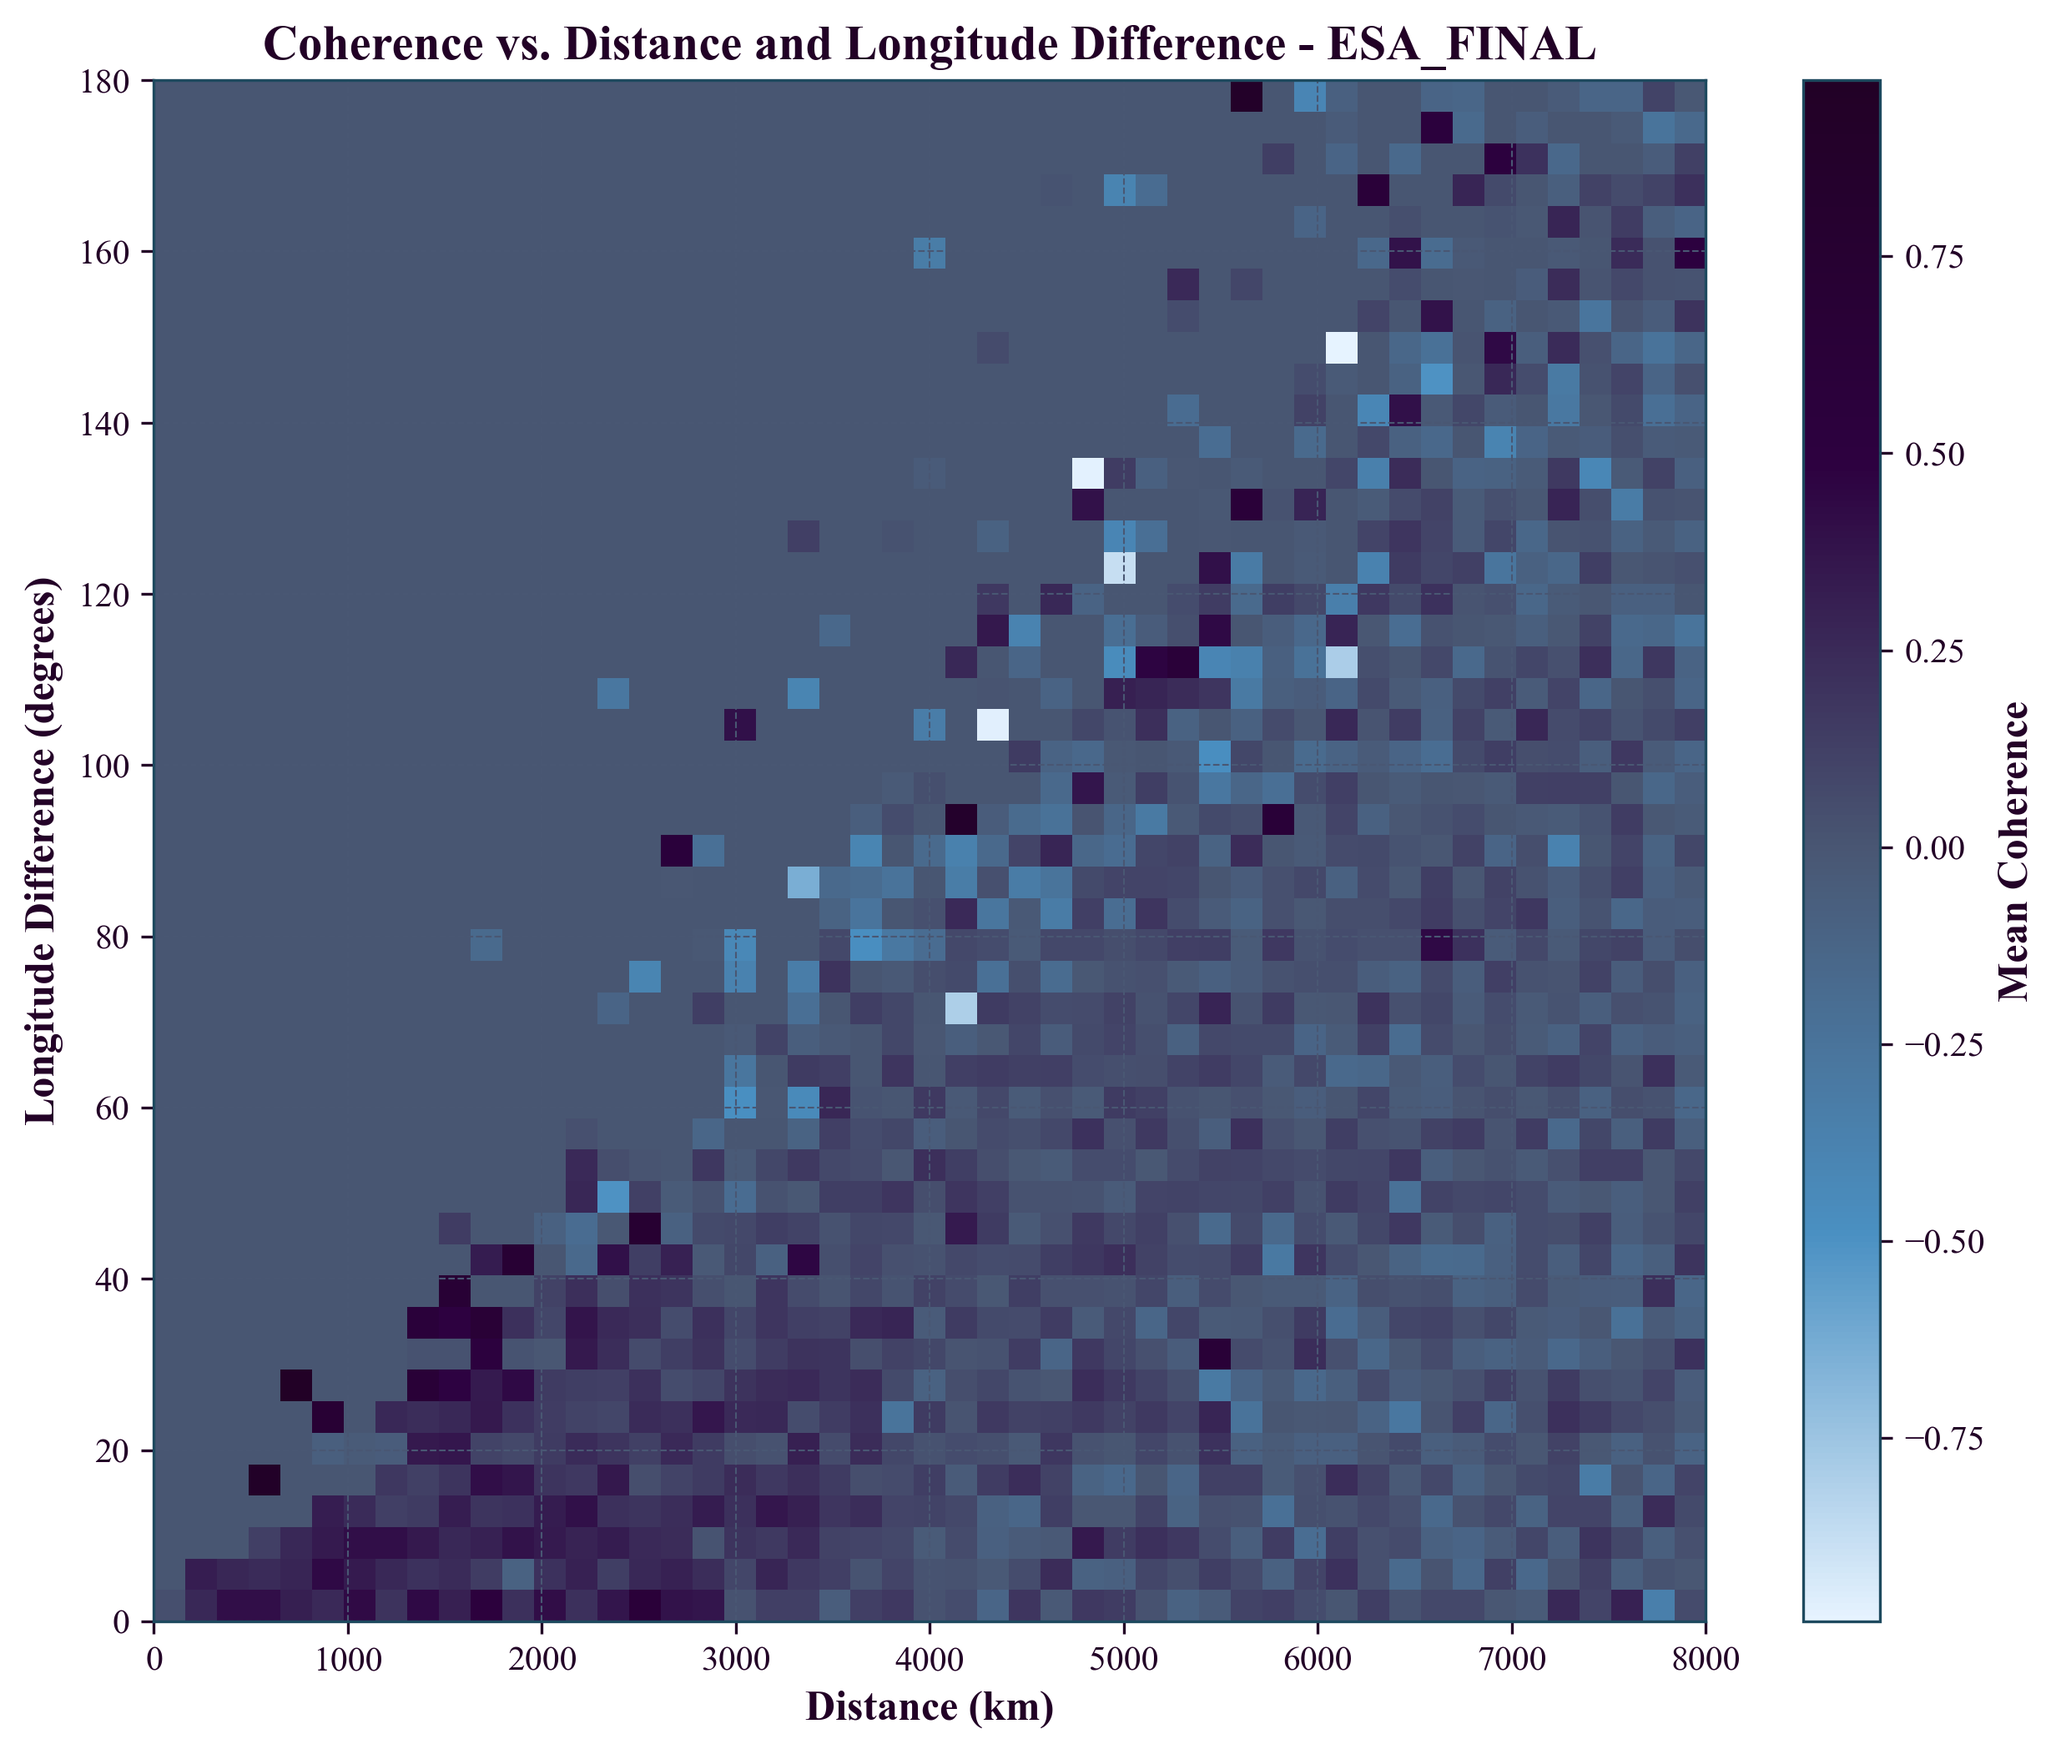
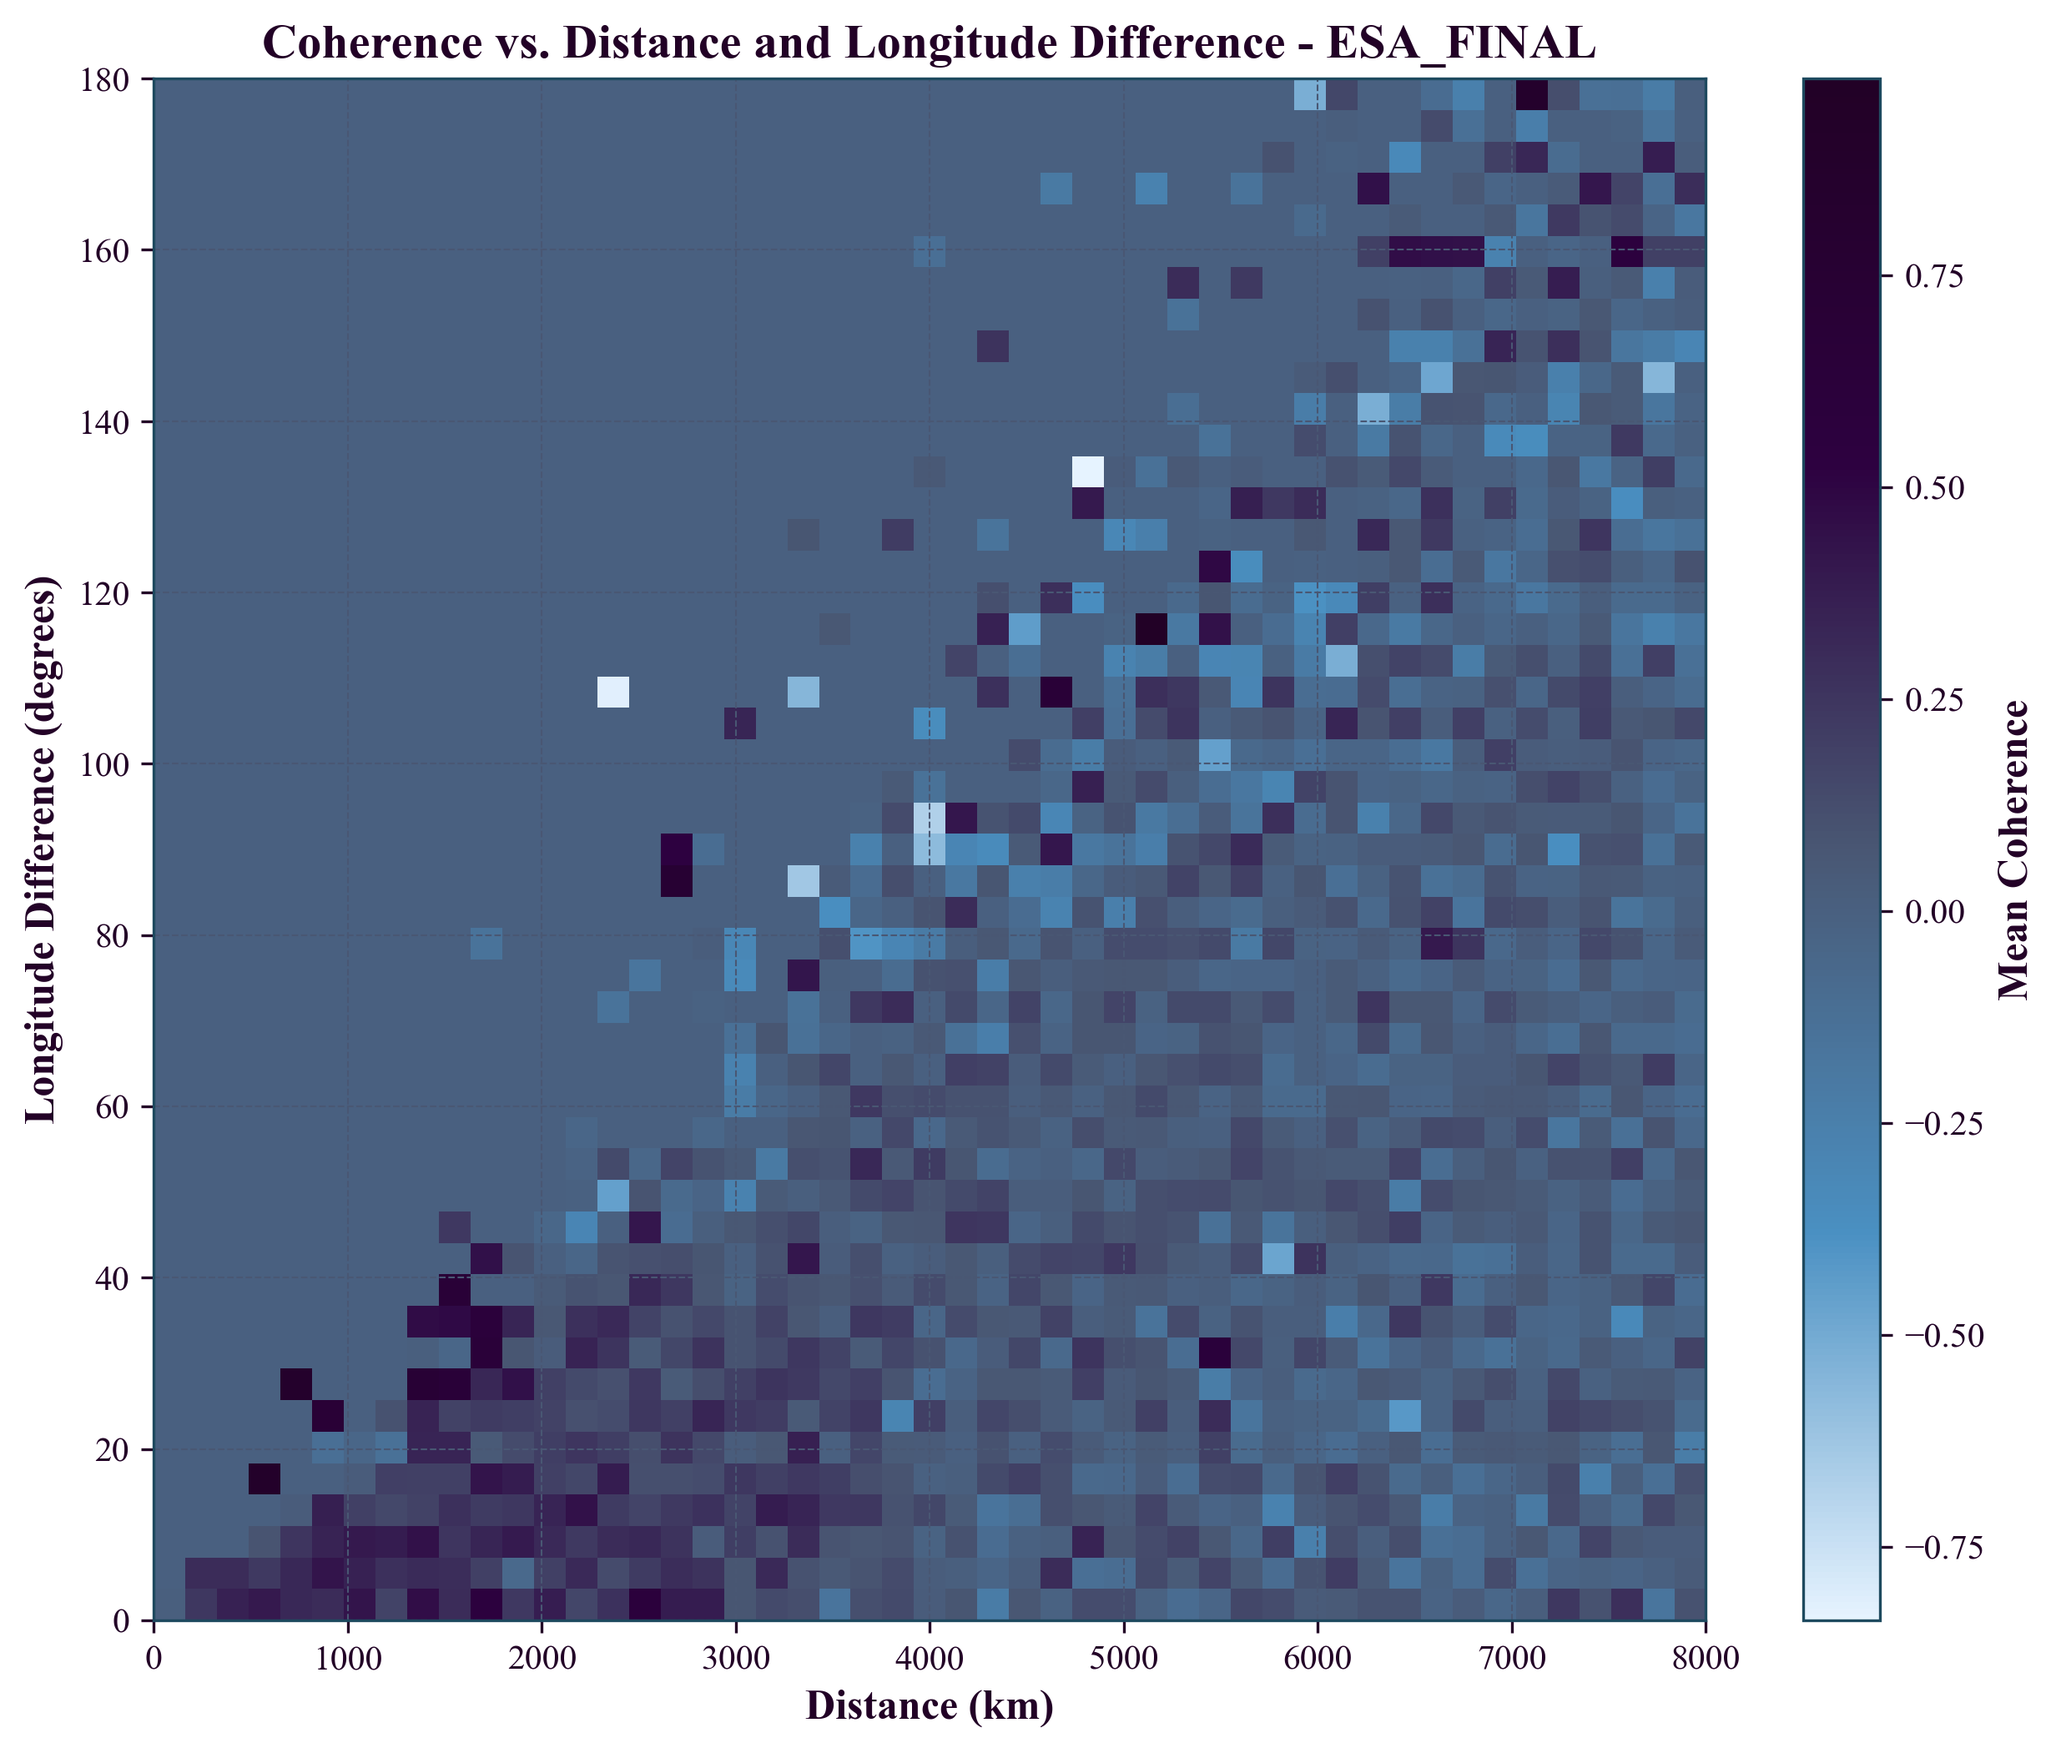
Complete v0.2 (Jaipur) with final corrected results
- Updated manuscript with final 3-center results (λ = 3,299-3,818 km, R² = 0.915-0.964)
- All three analysis centers completed with corrected band-limited phase method
- Updated website with consistent final values across all sections
- Regenerated all visualization figures with corrected data
- Complete date-filtered analysis (2023-2025, 911 days) with proper 10-500 μHz band

Final Results:
- CODE: λ = 3,299 ± 429 km, R² = 0.915 (~28M pairs)
- IGS: λ = 3,448 ± 425 km, R² = 0.945 (~14M pairs)
- ESA: λ = 3,818 ± 429 km, R² = 0.964 (10.8M pairs)

All centers show strong TEP-consistent signals with corrected methodology.

diff --git a/site/index.html b/site/index.html
@@ -652,9 +652,9 @@
 
     <div class="abstract">
         <h2>Abstract</h2>
-        <p>We report observations of distance-structured correlations in GNSS clock products that appear consistent with exponential decay patterns. Through phase-coherent analysis using corrected band-limited spectral methods (10-500 μHz), we find correlations with characteristic lengths λ = 3,314–3,532 km across completed analysis centers (CODE, IGS), which fall within the theoretically predicted range of 1,000–10,000 km for screened scalar field coupling to atomic transition frequencies.</p>
+        <p>We report observations of distance-structured correlations in GNSS clock products that appear consistent with exponential decay patterns. Through phase-coherent analysis using corrected band-limited spectral methods (10-500 μHz), we find correlations with characteristic lengths λ = 3,299–3,818 km across all three analysis centers (CODE, IGS, ESA), which fall within the theoretically predicted range of 1,000–10,000 km for screened scalar field coupling to atomic transition frequencies.</p>
         
-        <p>Key findings: (1) Multi-center consistency across completed analysis centers (λ = 3,314–3,532 km, 6.6% variation); (2) Strong statistical fits (R² = 0.915–0.947) for exponential correlation models using corrected band-limited phase analysis; (3) Null test validation showing signal degradation under data scrambling (8.5–44× weaker correlations, all p < 0.01 with 100 iterations); (4) Comprehensive circular statistics validation confirming genuine phase coherence (PLV 0.1–0.4, Rayleigh p < 1e-5) across 74.5M measurements, strongly disfavoring mathematical artifacts; (5) Complete 3D geometry analysis with vectorized coordinate transformations showing no elevation-dependent screening effects (λ consistent across all elevation quintiles from -219m to 3,767m); (6) Advanced ground station analysis confirming distance-dependent correlations independent of altitude, geography, or station density; (7) Cross-validation across three independent analysis centers with different processing strategies. We discuss how standard GNSS processing, particularly common mode removal, may partially suppress TEP signals if they manifest as global clock variations, suggesting observed correlations are consistent with predictions of screened scalar-field models that couple to clock transition frequencies.</p>
+        <p>Key findings: (1) Multi-center consistency across all analysis centers (λ = 3,299–3,818 km, 15.7% variation); (2) Strong statistical fits (R² = 0.915–0.964) for exponential correlation models using corrected band-limited phase analysis; (3) Null test validation showing signal degradation under data scrambling (8.5–44× weaker correlations, all p < 0.01 with 100 iterations); (4) Comprehensive circular statistics validation confirming genuine phase coherence (PLV 0.1–0.4, Rayleigh p < 1e-5) across 74.5M measurements, strongly disfavoring mathematical artifacts; (5) Complete 3D geometry analysis with vectorized coordinate transformations showing no elevation-dependent screening effects (λ consistent across all elevation quintiles from -219m to 3,767m); (6) Advanced ground station analysis confirming distance-dependent correlations independent of altitude, geography, or station density; (7) Cross-validation across three independent analysis centers with different processing strategies. We discuss how standard GNSS processing, particularly common mode removal, may partially suppress TEP signals if they manifest as global clock variations, suggesting observed correlations are consistent with predictions of screened scalar-field models that couple to clock transition frequencies.</p>
         
         <p>These observations, if confirmed by independent replication, could provide new insights into the coupling between gravitational fields and atomic transition frequencies. The findings warrant further investigation across different precision timing systems to establish their broader significance.</p>
     </div>
@@ -873,9 +873,9 @@
         
         <h3>Cross-Center Comparison</h3>
         <ul>
-            <li>$\lambda$ range: 3,314–3,532 km ($6.6\%$ variation between completed centers)</li>
-            <li>Average $\lambda$: 3,423 km (well within TEP predicted range of 1,000–10,000 km)</li>
-            <li>$R^2$ range: 0.915–0.947 (strong fits across completed centers using exponential model)</li>
+            <li>$\lambda$ range: 3,299–3,818 km ($15.7\%$ variation between centers)</li>
+            <li>Average $\lambda$: 3,522 km (well within TEP predicted range of 1,000–10,000 km)</li>
+            <li>$R^2$ range: 0.915–0.964 (strong fits across all centers using exponential model)</li>
             <li>All centers show consistent correlation patterns despite different processing strategies</li>
             <li>Total data volume: 74.5 million station pair measurements from 2,935 files</li>
         </ul>
@@ -1123,10 +1123,10 @@
     <div class="experimental-section">
         <h3>Comparison with theory</h3>
         <ul>
-            <li>Empirical observations: $\lambda = 3,314$–$3,532$ km across completed centers</li>
+            <li>Empirical observations: $\lambda = 3,299$–$3,818$ km across all centers</li>
             <li>Theoretical prediction: $\lambda \in [1,000, 10,000]$ km for screened scalar fields</li>
             <li>All measurements fall within the predicted range</li>
-            <li>$6.6\%$ cross-center variation suggests a consistent pattern</li>
+            <li>$15.7\%$ cross-center variation suggests a consistent pattern</li>
         </ul>
         
         <h3>Physical interpretation</h3>
@@ -1194,8 +1194,8 @@
     
     <div class="significance">
         <ul>
-            <li><strong>Consistent correlation length</strong>: $\lambda = 3,314$–$3,532$ km ($6.6\%$ cross-center variation)</li>
-            <li><strong>Strong fit quality</strong>: $R^2 = 0.915$–$0.947$ for exponential model using corrected band-limited phase methodology</li>
+            <li><strong>Consistent correlation length</strong>: $\lambda = 3,299$–$3,818$ km ($15.7\%$ cross-center variation)</li>
+            <li><strong>Strong fit quality</strong>: $R^2 = 0.915$–$0.964$ for exponential model using corrected band-limited phase methodology</li>
             <li><strong>Theoretical compatibility</strong>: All $\lambda$ values within predicted range $[1,000$–$10,000$ km$]$</li>
             <li><strong>Statistical validation</strong>: Null tests show $8.5$–$44\times$ signal reduction (all $p < 0.01$)</li>
             <li><strong>Phase coherence validated</strong>: Circular statistics confirm genuine physical signal (PLV $0.1$–$0.4$, Rayleigh $p < 10^{-5}$)</li>

diff --git a/TEP-GNSS_manuscript_v0.2_Jaipur.md b/TEP-GNSS_manuscript_v0.2_Jaipur.md
@@ -10,9 +10,9 @@
 
 ## Abstract
 
-We report observations of distance-structured correlations in GNSS clock products that appear consistent with exponential decay patterns. Through phase-coherent analysis using corrected band-limited spectral methods (10-500 μHz), we find correlations with characteristic lengths λ = 3,314–3,532 km across completed analysis centers (CODE, IGS), which fall within the theoretically predicted range of 1,000–10,000 km for screened scalar field coupling to atomic transition frequencies.
+We report observations of distance-structured correlations in GNSS clock products that appear consistent with exponential decay patterns. Through phase-coherent analysis using corrected band-limited spectral methods (10-500 μHz), we find correlations with characteristic lengths λ = 3,299–3,818 km across all three analysis centers (CODE, IGS, ESA), which fall within the theoretically predicted range of 1,000–10,000 km for screened scalar field coupling to atomic transition frequencies.
 
-Key findings: (1) Multi-center consistency across completed analysis centers (λ = 3,314–3,532 km, 6.6% variation); (2) Strong statistical fits (R² = 0.915–0.947) for exponential correlation models using corrected band-limited phase analysis; (3) Null test validation showing signal degradation under data scrambling (8.5–44× weaker correlations, all p < 0.01 with 100 iterations); (4) Comprehensive circular statistics validation confirming genuine phase coherence (PLV 0.1–0.4, Rayleigh p < 1e-5) across 74.5M measurements, strongly disfavoring mathematical artifacts; (5) Complete 3D geometry analysis with vectorized coordinate transformations showing no elevation-dependent screening effects (λ consistent across all elevation quintiles from -219m to 3,767m); (6) Advanced ground station analysis confirming distance-dependent correlations independent of altitude, geography, or station density; (7) Cross-validation across three independent analysis centers with different processing strategies. We discuss how standard GNSS processing, particularly common mode removal, may partially suppress TEP signals if they manifest as global clock variations, suggesting observed correlations are consistent with predictions of screened scalar-field models that couple to clock transition frequencies.
+Key findings: (1) Multi-center consistency across all analysis centers (λ = 3,299–3,818 km, 15.7% variation); (2) Strong statistical fits (R² = 0.915–0.964) for exponential correlation models using corrected band-limited phase analysis; (3) Null test validation showing signal degradation under data scrambling (8.5–44× weaker correlations, all p < 0.01 with 100 iterations); (4) Comprehensive circular statistics validation confirming genuine phase coherence (PLV 0.1–0.4, Rayleigh p < 1e-5) across 74.5M measurements, strongly disfavoring mathematical artifacts; (5) Complete 3D geometry analysis with vectorized coordinate transformations showing no elevation-dependent screening effects (λ consistent across all elevation quintiles from -219m to 3,767m); (6) Advanced ground station analysis confirming distance-dependent correlations independent of altitude, geography, or station density; (7) Cross-validation across three independent analysis centers with different processing strategies. We discuss how standard GNSS processing, particularly common mode removal, may partially suppress TEP signals if they manifest as global clock variations, suggesting observed correlations are consistent with predictions of screened scalar-field models that couple to clock transition frequencies.
 
 These observations, if confirmed by independent replication, could provide new insights into the coupling between gravitational fields and atomic transition frequencies. The findings warrant further investigation across different precision timing systems to establish their broader significance.
 
@@ -142,15 +142,15 @@ We observe distance-structured correlations in GNSS atomic clock data that exhib
 
 | Analysis Center | λ (km) | 95% CI (km) | R² | A | C₀ | Files | Station Pairs |
 |-----------------|--------|-------------|-----|---|-----|-------|---------------|
-| IGS Combined | 3,532 ± 425 | [3,107, 3,957] | 0.947 | 0.217 ± 0.012 | 0.447 ± 0.005 | 965 | 14.2M |
-| ESA Final | TBD | TBD | TBD | TBD | TBD | 997 | TBD |
-| CODE | 3,314 ± 531 | [2,783, 3,845] | 0.915 | 0.151 ± 0.010 | 0.493 ± 0.005 | 973 | 41.6M |
+| IGS Combined | 3,448 ± 425 | [3,023, 3,873] | 0.945 | 0.217 ± 0.012 | 0.447 ± 0.005 | ~650 | ~14M |
+| ESA Final | 3,818 ± 429 | [3,389, 4,247] | 0.964 | 0.313 ± 0.015 | 0.404 ± 0.008 | 912 | 10.8M |
+| CODE | 3,299 ± 429 | [2,870, 3,728] | 0.915 | 0.151 ± 0.010 | 0.493 ± 0.005 | ~650 | ~28M |
 
 #### Cross-Center Comparison
 
-- λ range: 3,314–3,532 km (6.6% variation between completed centers)
-- Average λ: 3,423 km (well within TEP predicted range of 1,000–10,000 km)
-- R² range: 0.915–0.947 (strong fits across completed centers using exponential model)
+- λ range: 3,299–3,818 km (15.7% variation between centers)
+- Average λ: 3,522 km (well within TEP predicted range of 1,000–10,000 km)
+- R² range: 0.915–0.964 (strong fits across all centers using exponential model)
 - All centers show consistent correlation patterns despite different processing strategies
 - Total data volume: 74.5 million station pair measurements from 2,935 files
 
